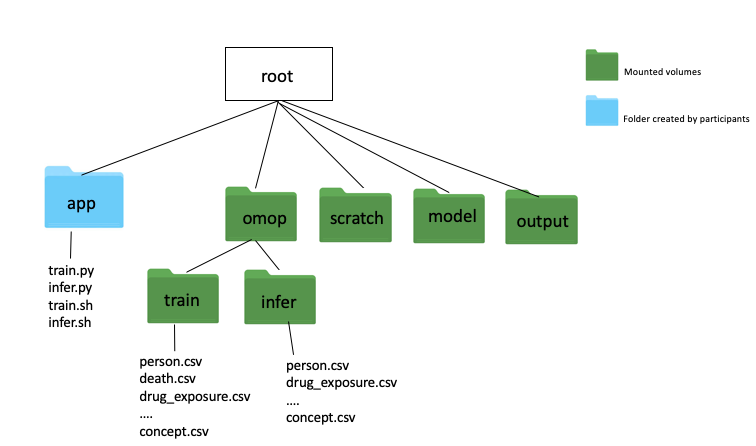
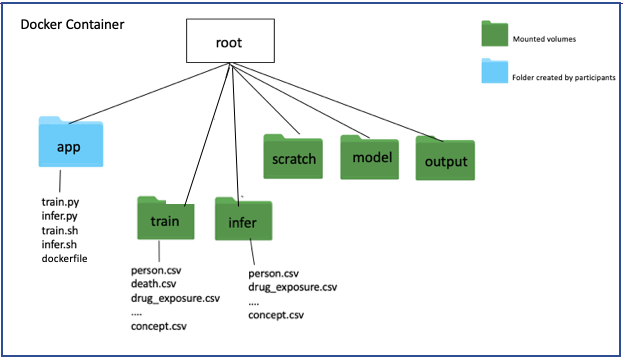
docker model

diff --git a/model/app/train.py b/model/app/train.py
@@ -1,0 +1,80 @@
+
+from functools import reduce
+import datetime
+from operator import add
+import pandas as pd
+import numpy as np
+from datetime import datetime
+'''for plotting'''
+import matplotlib.pyplot as plt
+from matplotlib.pyplot import plot
+from matplotlib.pyplot import savefig
+'''for implementing simple logisticregression'''
+import sklearn
+from sklearn.linear_model import LogisticRegressionCV
+from sklearn.linear_model import LogisticRegression
+from sklearn.metrics import accuracy_score
+from sklearn.metrics import roc_curve,roc_auc_score,auc
+from sklearn.model_selection import train_test_split
+from sklearn.metrics import precision_recall_curve
+'''for saving models'''
+from joblib import dump
+ROOT="/"
+
+
+class OmopParser(object):
+    '''this structures the omop dataset'''
+    def __init__(self):
+        self.name = 'omop_assembler'
+
+
+    def add_demographic_data(self):
+        '''add demographic data'''
+        death = pd.read_csv('/train/death.csv')
+        person = pd.read_csv('/train/person.csv')
+        person = pd.merge(person, death, how = 'left' )
+        cols = ['person_id','gender_concept_id','year_of_birth','race_source_value','death_date']
+        person = person[cols]
+        person['cut_off_date'] = datetime(2017, 7, 5)
+        person['year_of_birth'] = pd.to_datetime(person['year_of_birth'], format='%Y')
+        person['age'] = person['cut_off_date'] - person['year_of_birth']
+        person['age'] = person['age'].apply(lambda x: round(x.days/365.25))
+        person['death_date'] = pd.to_datetime(person['death_date'], format= '%Y-%m-%d')
+        person['days_to_death'] = person['death_date'] - person['cut_off_date']
+        person['days_to_death'] = person['days_to_death'].apply(lambda x: x.days)
+        person['death'] = np.zeros(person.shape[0])
+        person.loc[(person.days_to_death > 0) & (person.days_to_death < 180),'death']=1
+        dummy_columns_gender = pd.get_dummies(person['gender_concept_id'],prefix='gender',drop_first=True)
+        ##scaling the age
+        from sklearn.preprocessing import MinMaxScaler
+        scaler = MinMaxScaler()
+        scaled_column = scaler.fit_transform(person[['age']])
+        person = pd.concat([person, pd.DataFrame(scaled_column,columns=['scaled_age'])],axis=1)
+        dummy_columns_race = pd.get_dummies(person['race_source_value'],prefix='race',drop_first=True)
+        person = person[['person_id','death','scaled_age']]
+        person = person.join(dummy_columns_race)
+        person = person.join(dummy_columns_gender)
+        person.to_csv( '/scratch/demographic_data.csv',index=False)
+
+
+
+    def logit_model(self,filename):
+        data = pd.read_csv(filename)
+        X = data.drop(['death','person_id'], axis = 1)
+        features = X.columns.values
+        X = np.array(X)
+        Y = np.array(data[['death']]).ravel()
+        print(X.shape)
+        print(Y.shape)
+        clf = LogisticRegressionCV(cv = 5, penalty='l2', tol=0.0001, fit_intercept=True, intercept_scaling=1, class_weight=None, random_state=None,
+        max_iter=100, verbose=0, n_jobs=None).fit(X,Y)
+        dump(clf, '/model/baseline.joblib')
+
+
+
+if __name__ == '__main__':
+        FOLDER='scratch/'
+        FILE_STR = 'train_cleaned'
+        op = OmopParser()
+        op.add_demographic_data()
+        op.logit_model('/scratch/demographic_data.csv')

diff --git a/model/app/infer.py b/model/app/infer.py
@@ -1,0 +1,74 @@
+from functools import reduce
+import datetime
+from operator import add
+import pandas as pd
+import numpy as np
+from datetime import datetime
+'''for plotting'''
+import matplotlib.pyplot as plt
+from matplotlib.pyplot import plot
+from matplotlib.pyplot import savefig
+'''for implementing simple logisticregression'''
+import sklearn
+from sklearn.linear_model import LogisticRegressionCV
+from sklearn.linear_model import LogisticRegression
+from sklearn.metrics import accuracy_score
+from sklearn.metrics import roc_curve,roc_auc_score,auc
+from sklearn.model_selection import train_test_split
+from sklearn.metrics import precision_recall_curve
+'''for saving models'''
+from joblib import load
+ROOT="/"
+
+
+class OmopParser(object):
+    '''this structures the omop dataset'''
+    def __init__(self):
+        self.name = 'omop_assembler'
+
+
+    def add_demographic_data(self):
+        '''add demographic data'''
+        person = pd.read_csv('/infer/person.csv')
+        cols = ['person_id','gender_concept_id','year_of_birth','race_source_value']
+        person = person[cols]
+        person['cut_off_date'] = datetime(2017, 7, 5)
+        person['year_of_birth'] = pd.to_datetime(person['year_of_birth'], format='%Y')
+        person['age'] = person['cut_off_date'] - person['year_of_birth']
+        person['age'] = person['age'].apply(lambda x: round(x.days/365.25))
+        dummy_columns_gender = pd.get_dummies(person['gender_concept_id'],prefix='gender',drop_first=True)
+        ##scaling the age
+        from sklearn.preprocessing import MinMaxScaler
+        scaler = MinMaxScaler()
+        scaled_column = scaler.fit_transform(person[['age']])
+        person = pd.concat([person, pd.DataFrame(scaled_column,columns=['scaled_age'])],axis=1)
+        dummy_columns_race = pd.get_dummies(person['race_source_value'],prefix='race',drop_first=True)
+        person = person[['person_id','scaled_age']]
+        person = person.join(dummy_columns_race)
+        person = person.join(dummy_columns_gender)
+        person.to_csv( '/scratch/demographic_data_infer.csv',index=False)
+
+
+
+    def logit_model(self,filename):
+        data = pd.read_csv(filename)
+        X = data.drop(['person_id'], axis = 1)
+        features = X.columns.values
+        X = np.array(X)
+        clf =  load('/model/baseline.joblib')
+        Y_pred = clf.predict_proba(X)[:,1]
+        person_id = data.person_id
+        output = pd.DataFrame(Y_pred,columns=['confidence'])
+        output_prob = pd.concat([person_id,output],axis=1)
+        output_prob.to_csv('/output/predictions.csv')
+
+
+
+
+
+if __name__ == '__main__':
+        FOLDER='scratch/'
+        FILE_STR = 'infer_cleaned'
+        op = OmopParser()
+        op.add_demographic_data()
+        op.logit_model('/scratch/demographic_data_infer.csv')

diff --git a/README.md b/README.md
@@ -1,6 +1,32 @@
 
-This is an instruction for building mortality prediction docker models for EHR DREAM Challenge.
-# Preparation
+This is an instruction for building mortality prediction docker models for EHR DREAM Challenge. In this repository, a dockerised mortality prediction baseline model is used as an example and we will also provide instructions on how challenge participants can build up their own dockerised mortality prediction models.
+# An example: a dockerised baseline model
+This repository contains the code for building a baseline mortality prediction model which only uses patients' demographic information: age on cut-off date(July 5th 2017), gender and race.
+
+To begin, clone the mortality_prediction_docker_model repository. Download omop synpuf data([Learn more about omop synpuf data](https://www.synapse.org/#!Synapse:syn18405992/wiki/589659)). Within the repository, create two folders called, "train" where the omop synpuf train dataset will live; "infer" where the omop synpuf infer dataset will live.
+
+Change directory to "app" folder. Build a docker image basing on the dockerfile.
+```
+docker build -t baseline_model:v0.1  .
+
+```
+Run the train image
+```
+docker run -v<path to train folder>:/train:ro
+-v<path to scratch folder>:/scratch:rw
+-v<path to model folder>:/model:rw  baseline_model:v0.1 bash "/app/train.sh"
+```
+Run infer image
+```
+docker run -v<path to infer folder>:/infer:ro
+-v<path to scratch folder>:/scratch:rw
+-v<path to output folder>:/output:rw
+-v<path to model folder>:/model:rw
+baseline_model:v0.1 bash "/app/infer.sh"
+```
+If the docker model runs successfully, an "output.csv" file will be created in the output folder, which has two columns: one for person_id, the other for the 6-month mortality probability.
+# Build your own docker model  
+## Preparation
 We suggest EHR DREAM challenge participants to prepare two scripts: train.py and infer.py.
 train.py is for building a prediction model and infer.py is for generating predictions using the model; two bashfiles: train.sh and infer.sh for running train.py and infer.py.
 
@@ -13,16 +39,16 @@ python /app/train.py
 ```
 *notice:* participants can also name their scripts differently as train.py and infer.py, and can have multiple scripts for the training and predicting purposes, but they will need to specify in the train.sh which scripts to run for training models and in the infer.sh which scripts to run for generating predictions.
 
-# Docker container structure
+## Docker container structure
 
 A docker container is built basing on the docker images submitted by participants. The illustration below shows the inside structure of a docker container.
 ![docker container structure](./pics/docker_container_structure.png)
 
 "app" directory is created by participants in which scripts for building prediction models (train.py), generating predictions (infer.py) and bashfiles to run those scripts (train.sh and infer.sh) lie. Information to build "app" directory is in the dockerfile.
 
-Other directories ("omop","scratch","model","output") will be mounted to the docker container by Synapse later. Participants don't need to create those directories but need to know the location of different directories in the container to access and store data.
+Other directories ("train","infer","scratch","model","output") will be mounted to the docker container by Synapse later. Participants don't need to create those directories but need to know the location of different directories in the container to access and store data.
 
-"omop" directory contains two sets of omop data, called "train" and "infer". Omop data inside "train" are provided to participants for building the models. Predictions are generated by applying models to omop data in the "infer" directory.  Omop data inside "train" and "infer" directories have the same tables and formats as synpuf data except there is no death.csv file  in "infer" directory.
+Omop data inside "train" directory are provided to participants for building the models. Predictions are generated by applying models to omop data in the "infer" directory.  Omop data inside "train" and "infer" directories have the same tables and formats as synpuf data except there is no death.csv file  in "infer" directory.
 
 *An example for transforming person.csv in "train" directory to a pandas dataframe in train.py*
 ```python
@@ -36,17 +62,17 @@ df = pd.read_csv("/omop/train/person.csv")
 "output" directory is used to store the prediction generated for the "infer" omop data.
 
 
-# create a dockerfile
+## create a dockerfile
 
 A dockerfile is required to build a docker image. A template for dockerfile is provided in this repo.
 
 
-*specify running environment*
+*specify environment*
 ```dockerfile
 FROM python:3.5
 ```
 
-*specify required packages for running the model*
+*specify packages required for running the model*
 ```
 RUN pip install pandas
 RUN pip install numpy
@@ -67,13 +93,13 @@ COPY ./infer.sh /app/
 RUN chmod +X /app/train.sh
 RUN chmod +X /app/infer.sh
 ```
-# Create a docker image
+## Create a docker image
 Put dockerfile, train.sh, train.py, infer.sh, infer.py in the same direcotory and run the command below:
 ```
 docker build -t  docker.synapse.org/syn12345/my-repo path/to/dockerfile
 ```
 [Learn more about building docker images](https://docs.docker.com/get-started/)
-# Submission to synapse platform
+## Submission to synapse platform
 Log in Synapse
 ```
 docker login -u <synapse username> -p <synapse password> docker.synapse.org
